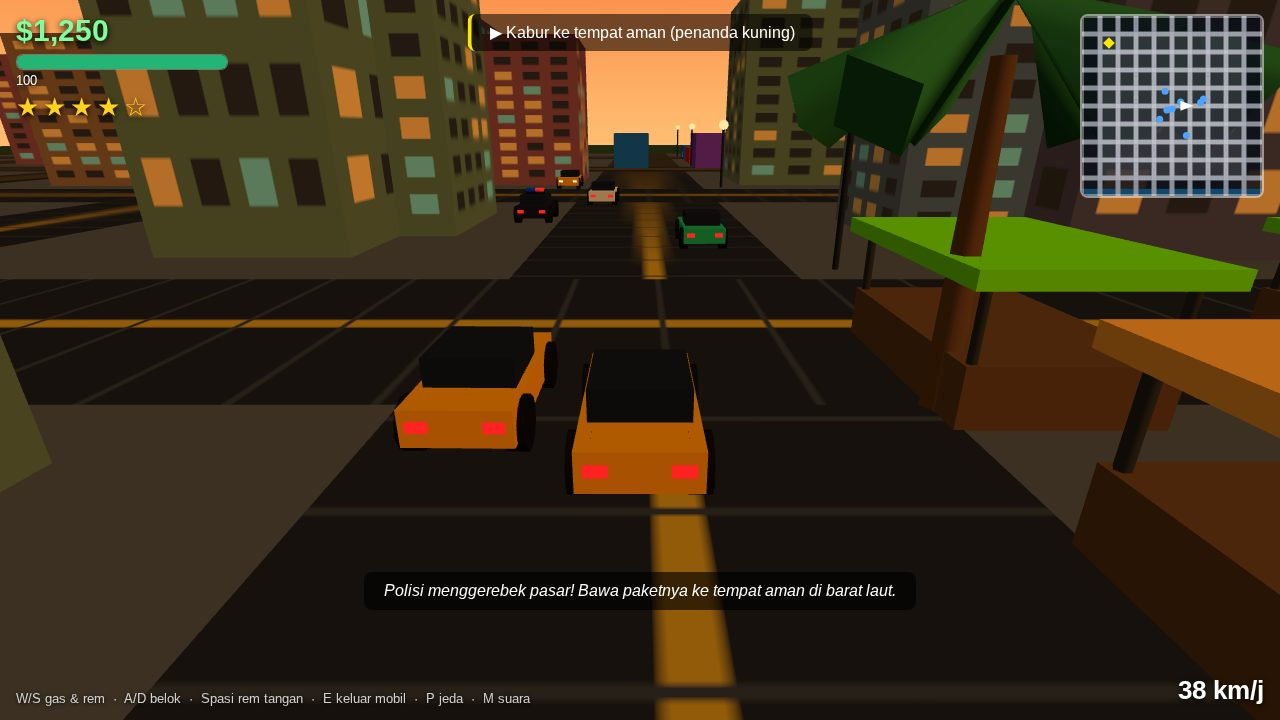
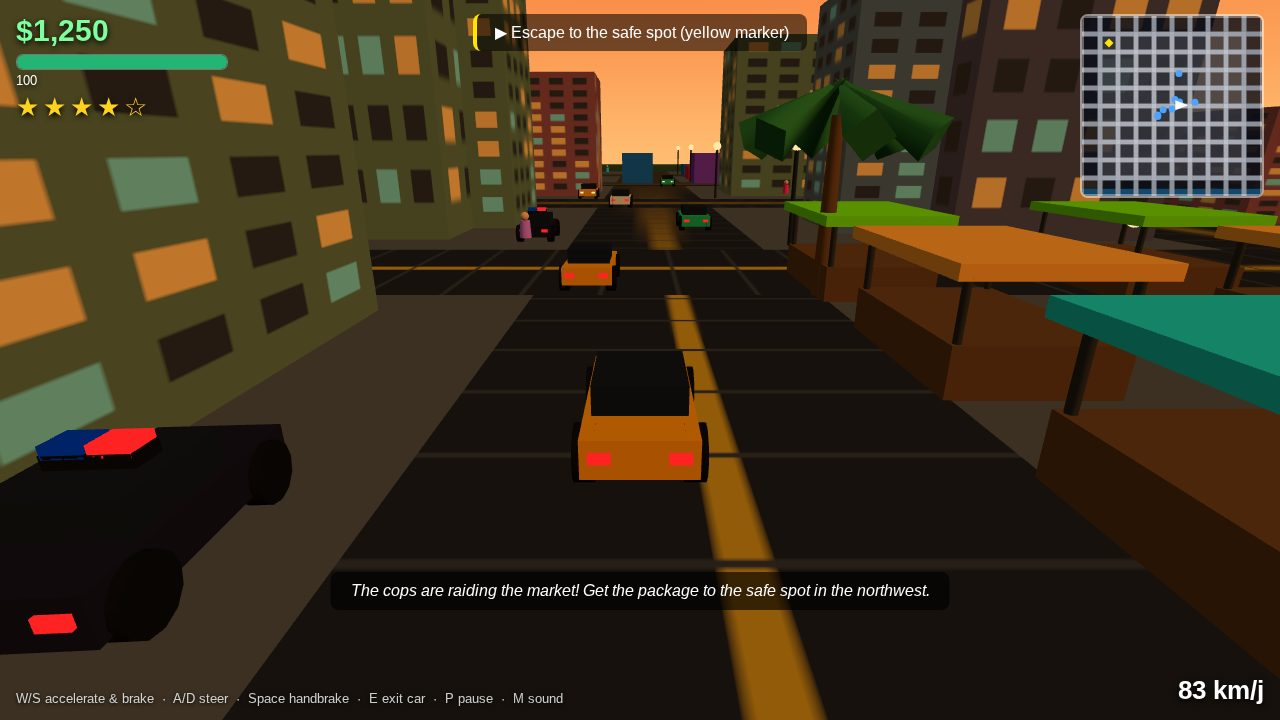
Translate all in-game text to English
Missions, briefings, HUD, menus, title/pause/death/end screens and
city signs were in Indonesian; the bounty judges are US-based, so
everything player-facing is now English. Screenshots recaptured from
the English build.

diff --git a/game/src/config.js b/game/src/config.js
@@ -33,29 +33,29 @@ export const WANTED_MAX = 5;
 export const MISSIONS = [
   {
     id: 'm1-paket',
-    title: 'Misi 1 — Paket Pertama',
-    briefing: 'Dara: "Ambil paket di kios pasar malam. Jangan telat, Saka."',
-    objective: 'Ambil paket di Pasar Malam',
+    title: 'Mission 1 — The First Package',
+    briefing: 'Dara: "Pick up the package at the night market stall. Do not be late, Saka."',
+    objective: 'Pick up the package at the Night Market',
     target: { x: 20, z: 20 },
     reward: 500,
     wanted: 0,
-    hint: 'Ikuti penanda kuning. Jalan kaki atau curi mobil — terserah kamu.',
+    hint: 'Follow the yellow marker. Walk or steal a car — your call.',
   },
   {
     id: 'm2-kabur',
-    title: 'Misi 2 — Kabur dari Razia',
-    briefing: 'Polisi menggerebek pasar! Bawa paketnya ke tempat aman di barat laut.',
-    objective: 'Kabur ke tempat aman (penanda kuning)',
+    title: 'Mission 2 — Escape the Raid',
+    briefing: 'The cops are raiding the market! Get the package to the safe spot in the northwest.',
+    objective: 'Escape to the safe spot (yellow marker)',
     target: { x: -140, z: -140 },
     reward: 800,
     wanted: 2,
-    hint: 'Polisi mengejarmu. Naik mobil lebih cepat. Hindari tabrakan.',
+    hint: 'The cops are after you. A car is faster. Avoid crashes.',
   },
   {
     id: 'm3-balapan',
-    title: 'Misi 3 — Balapan Liar',
-    briefing: 'Reno menantangmu balapan keliling kota. Menang, dan utangmu berkurang.',
-    objective: 'Lewati 5 pos balapan sebelum waktu habis',
+    title: 'Mission 3 — Street Race',
+    briefing: 'Reno challenges you to a race around the city. Win, and your debt shrinks.',
+    objective: 'Hit 5 race checkpoints before time runs out',
     target: { x: 160, z: 0 },
     reward: 1500,
     wanted: 1,
@@ -67,66 +67,66 @@ export const MISSIONS = [
       { x: -160, z: 160 },
       { x: -160, z: 0 },
     ],
-    hint: 'Naik mobil! Ikuti penanda kuning dari pos ke pos.',
+    hint: 'Get a car! Follow the yellow markers from checkpoint to checkpoint.',
   },
   {
     id: 'm4-curi-mobil',
-    title: 'Misi 4 — Mobil Pesanan',
-    briefing: 'Dara mau mobil sport merah di dermaga. Ambil, antar ke bengkel.',
-    objective: 'Curi mobil sport merah di dermaga',
+    title: 'Mission 4 — The Ordered Car',
+    briefing: 'Dara wants the red sports car at the pier. Take it, deliver it to the garage.',
+    objective: 'Steal the red sports car at the pier',
     target: { x: 120, z: 168 },
     reward: 2000,
     wanted: 1,
-    hint: 'Dekati mobil merah, tekan E untuk masuk. Lalu antar ke bengkel.',
+    hint: 'Walk up to the red car, press E to get in. Then deliver it to the garage.',
     deliver: { x: -120, z: -80 },
-    deliverText: 'Antar mobil ke bengkel (penanda kuning)',
+    deliverText: 'Deliver the car to the garage (yellow marker)',
   },
   {
     id: 'm5-baku-tembak',
-    title: 'Misi 5 — Baku Tembak di Kontainer',
-    briefing: 'Anak buah geng Pelabuhan mengadang di kawasan kontainer. Habisi mereka.',
-    objective: 'Kalahkan 6 penjaga kontainer',
+    title: 'Mission 5 — Container Yard Shootout',
+    briefing: 'Harbor gang thugs are waiting in the container yard. Take them out.',
+    objective: 'Defeat 6 container yard guards',
     target: { x: 140, z: 0 },
     reward: 2500,
     wanted: 3,
     enemies: 6,
-    hint: 'Klik mouse untuk menembak. F untuk memukul dari dekat.',
+    hint: 'Click the mouse to shoot. F to punch up close.',
   },
   {
     id: 'm6-utang',
-    title: 'Misi 6 — Bayar Utang',
-    briefing: 'Bawa uangnya ke kantor Dara di dermaga. Jangan sampai ketangkap.',
-    objective: 'Antar uang ke kantor Dara di dermaga',
+    title: 'Mission 6 — Pay the Debt',
+    briefing: 'Take the money to Dara\'s office at the pier. Do not get caught.',
+    objective: 'Deliver the money to Dara\'s office at the pier',
     target: { x: -40, z: 152 },
     reward: 3000,
     wanted: 3,
-    hint: 'Polisi mengawasimu. Pakai jalan kecil kalau perlu.',
+    hint: 'The cops are watching you. Use the side streets if you need to.',
   },
   {
     id: 'm7-kabur-kota',
-    title: 'Misi 7 — Kabur dari Kota',
-    briefing: 'Dara mengkhianatimu! Ambil uangnya dan kabur naik feri terakhir.',
-    objective: 'Sampai ke feri di dermaga — HIDUP-HIDUP',
+    title: 'Mission 7 — Escape the City',
+    briefing: 'Dara betrayed you! Grab the money and escape on the last ferry.',
+    objective: 'Reach the ferry at the pier — ALIVE',
     target: { x: 0, z: 174 },
     reward: 5000,
     wanted: 5,
-    hint: 'Semua polisi mengejarmu. Terus bergerak, jangan berhenti!',
+    hint: 'Every cop in the city is after you. Keep moving, do not stop!',
   },
 ];
 
 export const STORY_END =
-  'Saka naik feri terakhir keluar dari Neon Harbor — bebas, dengan uangnya. TAMAT. Terima kasih sudah bermain!';
+  'Saka rides the last ferry out of Neon Harbor — free, with his money. THE END. Thanks for playing!';
 
 // Neon signs and shop names around the city (all invented).
 export const SIGNS = [
-  { text: 'PASAR MALAM', color: '#ff2e88' },
+  { text: 'NIGHT MARKET', color: '#ff2e88' },
   { text: 'NEON HARBOR', color: '#22e6ff' },
-  { text: 'KOPI SENJA', color: '#ffb347' },
-  { text: 'DERMAGA 7', color: '#7CFC00' },
-  { text: 'HOTEL OMBAK', color: '#ff5e3a' },
-  { text: 'BENGKEL RENO', color: '#ffe600' },
-  { text: 'IKAN BAKAR', color: '#ff8c42' },
-  { text: 'KAFE PELITA', color: '#c77dff' },
+  { text: 'DUSK COFFEE', color: '#ffb347' },
+  { text: 'PIER 7', color: '#7CFC00' },
+  { text: 'WAVE HOTEL', color: '#ff5e3a' },
+  { text: "RENO'S GARAGE", color: '#ffe600' },
+  { text: 'GRILLED FISH', color: '#ff8c42' },
+  { text: 'PELITA CAFE', color: '#c77dff' },
 ];
 
 export const CAR_COLORS = [0xd21f3c, 0x1f6fd2, 0xf2a007, 0x22b573, 0xe8e8e8, 0x222831, 0x7a3fd2, 0x0fb5ae];

diff --git a/game/index.html b/game/index.html
@@ -70,46 +70,46 @@
 
 <div id="title-screen" class="screen">
   <h1>NEON HARBOR</h1>
-  <div class="sub">Kota pelabuhan tropis. Utang menumpuk. Satu feri terakhir keluar.</div>
-  <p>Kamu Saka, kurir lepas yang terlilit utang ke bos dermaga, Dara. Jelajahi kota jalan kaki atau naik mobil, curi mobil, kabur dari polisi, dan selesaikan 7 misi untuk bebas.</p>
+  <div class="sub">A tropical port city. Debts piling up. One last ferry out.</div>
+  <p>You are Saka, a freelance courier in debt to the harbour boss, Dara. Explore the city on foot or by car, steal cars, outrun the police, and finish 7 missions to break free.</p>
   <div>
-    <button id="btn-new">▶ Main Baru</button>
-    <button id="btn-continue">↻ Lanjutkan</button>
-    <button id="btn-how" class="ghost">Cara Main</button>
+    <button id="btn-new">▶ New Game</button>
+    <button id="btn-continue">↻ Continue</button>
+    <button id="btn-how" class="ghost">How to Play</button>
   </div>
   <div id="howto">
-    WASD — jalan / gas &amp; rem &nbsp;·&nbsp; Shift — lari<br>
-    E — masuk / keluar mobil (dekati mobil dulu)<br>
-    Klik mouse — tembak &nbsp;·&nbsp; F — pukul<br>
-    Seret mouse — putar kamera &nbsp;·&nbsp; Roda mouse — zoom<br>
-    Spasi — rem tangan &nbsp;·&nbsp; P / Esc — jeda &nbsp;·&nbsp; M — suara
+    WASD — move / accelerate &amp; brake &nbsp;·&nbsp; Shift — run<br>
+    E — enter / exit car (walk up to a car first)<br>
+    Mouse click — shoot &nbsp;·&nbsp; F — punch<br>
+    Drag mouse — rotate camera &nbsp;·&nbsp; Mouse wheel — zoom<br>
+    Space — handbrake &nbsp;·&nbsp; P / Esc — pause &nbsp;·&nbsp; M — sound
   </div>
   <div id="save-info"></div>
 </div>
 
 <div id="pause-screen" class="screen">
-  <h2>JEDA</h2>
-  <p>Istirahat sebentar. Kota tetap menunggumu.</p>
+  <h2>PAUSED</h2>
+  <p>Take a breather. The city waits for you.</p>
   <div>
-    <button id="btn-resume">▶ Lanjut</button>
-    <button id="btn-save">💾 Simpan</button>
-    <button id="btn-restart" class="ghost">↺ Mulai dari Awal</button>
-    <button id="btn-quit" class="ghost">Menu Utama</button>
+    <button id="btn-resume">▶ Resume</button>
+    <button id="btn-save">💾 Save</button>
+    <button id="btn-restart" class="ghost">↺ Start Over</button>
+    <button id="btn-quit" class="ghost">Main Menu</button>
   </div>
 </div>
 
 <div id="dead-screen" class="screen">
-  <h2 id="dead-title">KAMU MATI</h2>
+  <h2 id="dead-title">YOU DIED</h2>
   <p id="dead-text"></p>
-  <div><button id="btn-retry">↻ Ulangi Misi</button></div>
+  <div><button id="btn-retry">↻ Retry Mission</button></div>
 </div>
 
 <div id="end-screen" class="screen">
-  <h2>BEBAS!</h2>
-  <p>Saka naik feri terakhir keluar dari Neon Harbor — bebas, dengan uangnya. TAMAT. Terima kasih sudah bermain!</p>
+  <h2>FREE!</h2>
+  <p>Saka rides the last ferry out of Neon Harbor — free, with his money. THE END. Thanks for playing!</p>
   <div>
-    <button id="btn-again">↺ Main Lagi</button>
-    <button id="btn-end-title" class="ghost">Menu Utama</button>
+    <button id="btn-again">↺ Play Again</button>
+    <button id="btn-end-title" class="ghost">Main Menu</button>
   </div>
 </div>
 

diff --git a/game/src/missions.js b/game/src/missions.js
@@ -34,7 +34,7 @@ export class Missions {
     const m = this.current;
     if (!m) return '';
     if (this.phase === 'deliver' && m.deliverText) return m.deliverText;
-    if (m.checkpoints) return `${m.objective} — pos ${this.checkpoint + 1}/5`;
+    if (m.checkpoints) return `${m.objective} — checkpoint ${this.checkpoint + 1}/5`;
     if (m.enemies) return `${m.objective} — tersisa ${this.world.combat.aliveCount}`;
     return m.objective;
   }
@@ -80,7 +80,7 @@ export class Missions {
   completeMission() {
     const m = this.current;
     this.world.money += m.reward;
-    this.world.hud.toast(`Misi selesai! +$${m.reward.toLocaleString('en-US')}`);
+    this.world.hud.toast(`Mission complete! +$${m.reward.toLocaleString('en-US')}`);
     this.world.audio.missionDone();
     this.world.combat.clearEnemies();
     if (this.targetCar && this.phase === 'go') {
@@ -100,7 +100,7 @@ export class Missions {
 
   failMission(reason) {
     this.world.hud.toast(reason);
-    this.world.hud.dialogue('Misi gagal — coba lagi dari titik awal misi.');
+    this.world.hud.dialogue('Mission failed — try again from the mission start.');
     const m = this.current;
     this.world.player.teleport(m.target.x + 6, m.target.z + 6);
     this.world.player.health = 100;
@@ -131,7 +131,7 @@ export class Missions {
     }
     if (m.timeLimit) {
       this.timeLeft -= dt;
-      if (this.timeLeft <= 0) { this.failMission('Waktu habis!'); return; }
+      if (this.timeLeft <= 0) { this.failMission('Time up!'); return; }
     }
     const dist = (a) => Math.hypot(px - a.x, pz - a.z);
 
@@ -147,13 +147,13 @@ export class Missions {
       if (this.phase === 'go') {
         if (this.targetCar && p.inCar === this.targetCar) {
           this.phase = 'deliver';
-          this.world.hud.toast('Mobil didapat! Antar ke bengkel.');
-          this.world.hud.dialogue('Reno: "Bagus. Bawa ke bengkelku, jangan sampai lecet."');
+          this.world.hud.toast('Car acquired! Deliver it to the garage.');
+          this.world.hud.dialogue('Reno: "Nice. Bring it to my garage, not a scratch on it."');
         }
         return;
       }
       if (dist(m.deliver) < 15 && p.inCar === this.targetCar) {
-        this.world.hud.toast('Mobil diantar. Reno senang.');
+        this.world.hud.toast('Car delivered. Reno is pleased.');
         this.completeMission();
       }
       return;
@@ -163,7 +163,7 @@ export class Missions {
       return;
     }
     if (dist(m.target) < 9) {
-      if (m.id === 'm1-paket') this.world.hud.toast('Paket didapat!');
+      if (m.id === 'm1-paket') this.world.hud.toast('Package picked up!');
       this.completeMission();
     }
   }

diff --git a/game/src/main.js b/game/src/main.js
@@ -96,7 +96,7 @@ world.newGame = () => {
   world.hud.hideTitle();
   world.hud.showDead(false);
   world.hud.showPause(false);
-  world.hud.toast('Misi 1 — ambil paket di Pasar Malam.');
+  world.hud.toast('Mission 1 — pick up the package at the Night Market.');
 };
 
 world.continueGame = () => {
@@ -114,7 +114,7 @@ world.continueGame = () => {
   player.teleport(s.x ?? 0, s.z ?? 80);
   world.state = 'play';
   world.hud.hideTitle();
-  world.hud.toast('Selamat datang kembali, Saka.');
+  world.hud.toast('Welcome back, Saka.');
 };
 
 world.retryMission = () => {
@@ -184,7 +184,7 @@ addEventListener('keydown', (e) => {
   if (keyMap[e.code]) { input[keyMap[e.code]] = true; e.preventDefault(); }
   if (e.code === 'KeyE') tryEnterExitCar();
   if (e.code === 'KeyF') tryPunch();
-  if (e.code === 'KeyM') { const m = audio.toggleMute(); world.hud.toast(m ? 'Suara mati.' : 'Suara hidup.'); }
+  if (e.code === 'KeyM') { const m = audio.toggleMute(); world.hud.toast(m ? 'Sound off.' : 'Sound on.'); }
   if (e.code === 'KeyP' || e.code === 'Escape') {
     if (world.state === 'play' || world.state === 'pause') world.togglePause();
   }
@@ -242,7 +242,7 @@ function tryEnterExitCar() {
     if (!car.stolen) {
       car.stolen = true;
       police.addHeat(1);
-      world.hud.toast('Mobil dicuri! Polisi mengawasimu.');
+      world.hud.toast('Car stolen! The cops are watching you.');
       audio.chime();
     }
   }
@@ -319,7 +319,7 @@ function animate() {
       cp.mesh.visible = false;
       world.money += 100;
       audio.pickup();
-      world.hud.toast('+$100 uang jalanan.');
+      world.hud.toast('+$100 street cash.');
     }
   }
 
@@ -333,13 +333,13 @@ function animate() {
   if (player.busted) {
     player.busted = false;
     world.state = 'dead';
-    document.getElementById('dead-title').textContent = 'TERTANGKAP!';
-    document.getElementById('dead-text').textContent = 'Polisi menangkap Saka. Misi diulang dari awal misi ini.';
+    document.getElementById('dead-title').textContent = 'BUSTED!';
+    document.getElementById('dead-text').textContent = 'The cops caught Saka. The mission restarts from its beginning.';
     world.hud.showDead(true);
   } else if (player.dead) {
     world.state = 'dead';
-    document.getElementById('dead-title').textContent = 'KAMU MATI';
-    document.getElementById('dead-text').textContent = 'Saka tumbang. Misi diulang dari awal misi ini.';
+    document.getElementById('dead-title').textContent = 'YOU DIED';
+    document.getElementById('dead-text').textContent = 'Saka went down. The mission restarts from its beginning.';
     world.hud.showDead(true);
   }
 

diff --git a/game/src/hud.js b/game/src/hud.js
@@ -42,7 +42,7 @@ export class HUD {
     if (has) {
       try {
         const s = JSON.parse(localStorage.getItem('neon-harbor-save'));
-        info.textContent = `Save terakhir: Misi ${s.missionIndex + 1}/7 — $${(s.money || 0).toLocaleString('en-US')}`;
+        info.textContent = `Last save: Mission ${s.missionIndex + 1}/7 — $${(s.money || 0).toLocaleString('en-US')}`;
       } catch { info.textContent = ''; }
     } else info.textContent = '';
   }
@@ -107,12 +107,12 @@ export class HUD {
     this.el.speed.textContent = inCar ? Math.round(Math.abs(p.inCar.speed) * 3.6) + ' km/j' : '';
     this.el.crosshair.style.display = (!inCar && w.state === 'play') ? 'block' : 'none';
     this.el.hint.innerHTML = inCar
-      ? 'W/S gas & rem &nbsp;·&nbsp; A/D belok &nbsp;·&nbsp; Spasi rem tangan &nbsp;·&nbsp; E keluar mobil &nbsp;·&nbsp; P jeda &nbsp;·&nbsp; M suara'
-      : 'WASD jalan &nbsp;·&nbsp; Shift lari &nbsp;·&nbsp; E masuk mobil &nbsp;·&nbsp; Klik tembak &nbsp;·&nbsp; F pukul &nbsp;·&nbsp; P jeda &nbsp;·&nbsp; M suara';
+      ? 'W/S accelerate & brake &nbsp;·&nbsp; A/D steer &nbsp;·&nbsp; Space handbrake &nbsp;·&nbsp; E exit car &nbsp;·&nbsp; P pause &nbsp;·&nbsp; M sound'
+      : 'WASD move &nbsp;·&nbsp; Shift run &nbsp;·&nbsp; E enter car &nbsp;·&nbsp; Click shoot &nbsp;·&nbsp; F punch &nbsp;·&nbsp; P pause &nbsp;·&nbsp; M sound';
     // Interact prompt when a stealable car is near.
     const near = !inCar && w.nearestStealableCar();
     this.el.interact.style.display = near ? 'block' : 'none';
-    if (near) this.el.interact.textContent = near === w.missions.targetCar ? 'E — Curi mobil sport merah' : 'E — Masuk mobil';
+    if (near) this.el.interact.textContent = near === w.missions.targetCar ? 'E — Steal the red sports car' : 'E — Enter car';
     this.drawMinimap();
   }
 

diff --git a/game/src/city.js b/game/src/city.js
@@ -304,7 +304,7 @@ export function buildCity(scene) {
     animated.push({ mesh: sm, phase: rand() * 6, kind: 'flicker' });
   }
   landmark(-40, 152, 18, 14, 12, 0x3a2a4a, 'KANTOR DARA', '#ff2e88');
-  landmark(-120, -80, 20, 9, 14, 0x4a4a55, 'BENGKEL RENO', '#ffe600');
+  landmark(-120, -80, 20, 9, 14, 0x4a4a55, "RENO'S GARAGE", '#ffe600');
 
   // Parked cars the player can steal, at fixed spots around town.
   const parkedSpots = [
